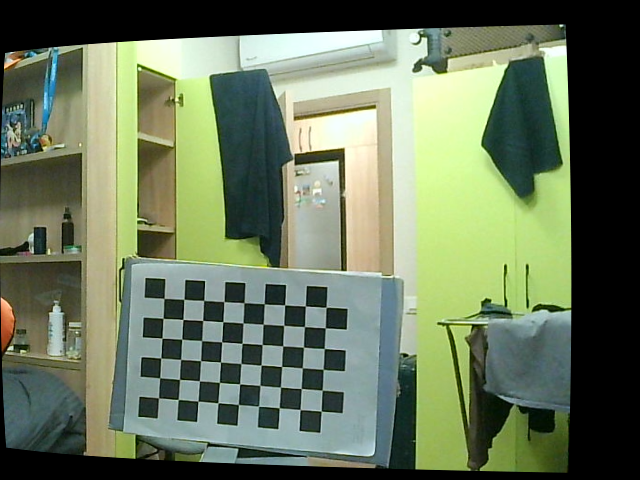
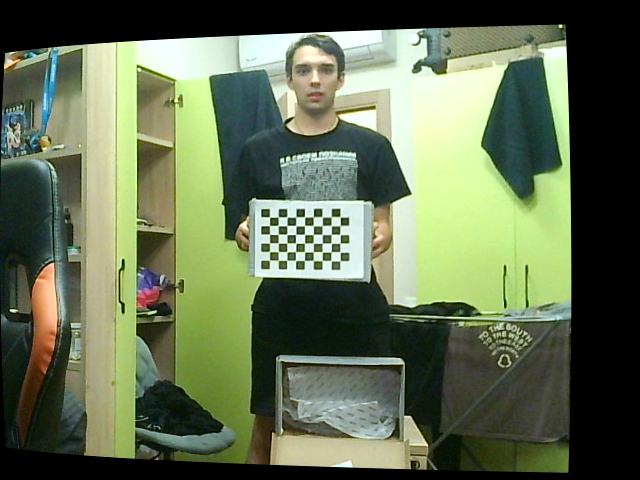
readme

diff --git a/README.md b/README.md
@@ -1,0 +1,255 @@
+# Stereo_BM — измерение расстояния по стереопаре
+
+Проект на Python и OpenCV для калибровки двух камер, ректификации изображений и оценки расстояния методом блочного сопоставления **StereoBM**. Содержит отдельные версии для Windows и Linux / Raspberry Pi.
+
+Программа показывает изображения камер и карту диспаратности, измеряет расстояние в небольшой области кадра и сохраняет статистику экспериментов в CSV.
+
+## Возможности
+
+- Определение индексов подключённых камер.  
+- Сохранение пар фотографий шахматной доски.
+- Калибровка каждой камеры и стереопары.
+- Ректификация: выравнивание соответствующих точек по горизонтали.
+- Численная проверка вертикального расхождения по углам шахматной доски.
+- Измерение расстояния по медиане диспаратности в области 31 × 31 пиксель.
+- Сбор 50 валидных измерений с расчётом среднего, стандартного отклонения и ошибки относительно заданного расстояния.
+- Вывод скорости обработки и времени отдельных этапов.
+
+## Структура проекта
+
+```text
+Stereo_BM/
+├── calibration_files/             # PDF и PNG для работы с тестовыми изображениями
+├── metods/                        # Сопроводительные документы DOCX
+├── stereo_project_win/
+│   ├── camera_index_check.py
+│   ├── capture_calibration.py
+│   ├── stereo_calibrate.py
+│   ├── stereo_rectify.py
+│   ├── check_rectification.py
+│   ├── stereo_bm_win.py
+│   ├── calibration_photos/left/
+│   ├── calibration_photos/right/
+│   ├── stereo_calibration.npz
+│   ├── rect_left.png
+│   ├── rect_right.png
+│   └── bm_results_optimized.csv
+└── stereo_project_lin/
+    ├── camera_index_check_linux.py
+    ├── capture_calibration_linux.py
+    ├── stereo_calibrate_linux.py
+    ├── stereo_rectify_linux.py
+    ├── check_rectification_linux.py
+    ├── stereo_bm_linux.py
+    ├── calibration_photos/left/
+    ├── calibration_photos/right/
+    ├── stereo_calibration.npz
+    ├── rect_left.png
+    ├── rect_right.png
+    └── bm_results_optimized_linux.csv
+```
+
+## Требования и установка
+
+Нужны Python 3, NumPy, OpenCV с поддержкой графических окон, две камеры и шахматная доска. Для Linux используется интерфейс V4L2. Для просмотра окон требуется графическая сессия; пакет opencv-python-headless для этих сценариев не подходит.
+
+Зависимости перечислены в requirements.txt.
+
+### Windows
+
+Откройте PowerShell в распакованной папке Stereo_BM:
+
+```powershell
+py -m venv .venv
+./.venv/Scripts/python.exe -m pip install numpy opencv-python
+cd stereo_project_win
+../.venv/Scripts/python.exe camera_index_check.py
+```
+
+В командах ниже под python понимается интерпретатор этого окружения. Без активации окружения используйте вместо python путь ..\.venv\Scripts\python.exe.
+
+### Linux / Raspberry Pi
+
+Откройте терминал в распакованной папке Stereo_BM:
+
+```bash
+python3 -m venv .venv
+source .venv/bin/activate
+python -m pip install numpy opencv-python
+cd stereo_project_lin
+python camera_index_check_linux.py
+```
+
+Доступность готового пакета OpenCV зависит от ОС, архитектуры и версии Python. Если установка не проходит, потребуется совместимая сборка OpenCV для вашей системы.
+
+**Выполняйте дальнейшие команды из папки своей платформы.** Многие скрипты читают и записывают файлы относительно текущей рабочей папки.
+
+## Порядок работы
+
+### 1. Определите камеры и согласуйте их порядок
+
+Закройте другие программы, использующие камеры, и запустите camera_index_check.py либо camera_index_check_linux.py. Скрипт проверяет индексы от 0 до 5. Поочерёдно закрывайте объективы, чтобы определить физическую левую и правую камеры.
+
+- Пробел — следующая камера.
+- Q или Esc — завершить проверку.
+
+### 2. Снимите калибровочные пары
+
+В stereo_calibrate.py или stereo_calibrate_linux.py проверьте:
+
+```python
+CHECKERBOARD = (9, 6)
+SQUARE_SIZE = 24.0  # миллиметры
+```
+
+9 × 6 — количество **внутренних углов**, то есть доска из 10 × 7 клеток. SQUARE_SIZE должен соответствовать фактически измеренной стороне клетки. От этого зависит масштаб вычисляемого расстояния.
+
+Запустите скрипт своей платформы:
+
+```powershell
+# Windows
+python capture_calibration.py
+```
+
+```bash
+# Linux
+python capture_calibration_linux.py
+```
+
+Нажимайте S, чтобы сохранить пару, и Q для выхода. Снимки записываются как calibration_photos/left/00.jpg и calibration_photos/right/00.jpg, затем 01.jpg и т. д.
+
+Снимайте доску в разных положениях, наклонах и частях кадра; она должна быть видна обеим камерам. Для продолжения калибровки код требует минимум 10 пар с обнаруженными углами на обоих изображениях.
+
+**При каждом запуске нумерация начинается с 00: существующие снимки с такими именами перезаписываются.** Перед новой серией перенесите предыдущие снимки в отдельную папку. Имена и порядок файлов слева и справа должны соответствовать: калибратор сопоставляет отсортированные списки файлов.
+
+Сохраняйте одинаковое разрешение камер при съёмке, ректификации и измерении. Скрипты съёмки и просмотра ректификации не задают разрешение явно; при необходимости добавьте его настройку в код.
+
+### 3. Выполните калибровку
+
+```powershell
+# Windows
+python stereo_calibrate.py
+```
+
+```bash
+# Linux
+python stereo_calibrate_linux.py
+```
+
+Скрипт выводит ошибки калибровки, матрицы камер, взаимный поворот R, перенос T и расчётное расстояние между оптическими центрами камер. Результат сохраняется в stereo_calibration.npz, заменяя существующий файл.
+
+Файл содержит K_left, D_left, K_right, D_right, R, T, E, F и image_size. При задании SQUARE_SIZE в миллиметрах вектор T также выражен в миллиметрах.
+
+В диагностическом выводе базовое расстояние сравнивается с фиксированными **100 мм**. Это значение исходной установки, а не универсальное требование; для своей установки измените диагностическое сравнение. Измеритель берёт геометрию из калибровки.
+
+### 4. Проверьте ректификацию
+
+```powershell
+# Windows
+python stereo_rectify.py
+```
+
+```bash
+# Linux
+python stereo_rectify_linux.py
+```
+
+В окне показываются два выровненных изображения с горизонтальными линиями. Соответствующие точки должны находиться примерно на одной высоте. S сохраняет rect_left.png и rect_right.png без нарисованных направляющих, Q завершает работу. Сохранение заменяет предыдущую пару.
+
+Для численной проверки сохраните пару с полностью видимой шахматной доской:
+
+```powershell
+# Windows
+python check_rectification.py rect_left.png rect_right.png --cols 9 --rows 6
+```
+
+```bash
+# Linux
+python check_rectification_linux.py rect_left.png rect_right.png --cols 9 --rows 6
+```
+
+Проверка выводит среднюю, медианную, RMS и максимальную вертикальную ошибку в пикселях, а также медианную диспаратность. Оценка относится к найденным углам этой пары, а не ко всему полю зрения. Если скрипт предупреждает о возможном обратном порядке углов, сначала проверьте их соответствие визуально.
+
+### 5. Запустите измерение
+
+**Windows:** задайте REAL_DISTANCE_CM в stereo_bm_win.py равным известному расстоянию до объекта в сантиметрах. По умолчанию установлено 100.0.
+
+```powershell
+python stereo_bm_win.py
+```
+
+**Linux / Raspberry Pi:** реальное расстояние можно передать при запуске; по умолчанию это 60 см.
+
+```bash
+python stereo_bm_linux.py --left /dev/video0 --right /dev/video2 --distance 60
+```
+
+Дополнительные параметры Linux:
+
+| Параметр        | Назначение                                                 |
+| --------------- | ---------------------------------------------------------- |
+| --left, --right | Пути к устройствам камер                                   |
+| --distance      | Известное расстояние до объекта в см, больше нуля          |
+| --calibration   | Путь к файлу NPZ; по умолчанию рядом со скриптом           |
+| --results       | Путь к CSV; по умолчанию рядом со скриптом                 |
+| --fourcc        | YUYV или MJPG; ограничение текущей реализации описано ниже |
+
+Разместите объект в красной области измерения. Нажмите S: программа соберёт 50 валидных измерений и добавит строку в CSV. Во время сбора держите объект и камеры неподвижными. Q завершает работу; незаконченная серия в CSV не сохраняется.
+
+Клавиши работают в активном окне OpenCV; используйте латинскую раскладку без Shift.
+
+## Как вычисляется расстояние
+
+После ректификации StereoBM рассчитывает горизонтальное смещение соответствующих точек — диспаратность. В области 31 × 31 пиксель отбрасываются неподходящие значения. Если осталось не менее 50 пикселей, берётся медиана диспаратности и вычисляется:
+
+```text
+Z_cm = f_px × B_mm / (10 × |d_px|)
+```
+
+Здесь f — фокусное расстояние из матрицы ректифицированной камеры, B — модуль горизонтальной базы из проекционных матриц, d — медианная диспаратность. Результат представляет глубину вдоль оптической оси ректифицированной камеры.
+
+REAL_DISTANCE_CM / --distance используется только для расчёта ошибки эксперимента, а не для настройки измеренной глубины.
+
+### Основные параметры текущего кода
+
+| Параметр                | Windows             | Linux             |
+| ----------------------- | ------------------- | ----------------- |
+| MIN_DISPARITY           | -256                | -256              |
+| NUM_DISPARITIES         | 256                 | 256               |
+| BLOCK_SIZE              | 15                  | 15                |
+| ROI_RADIUS              | 15                  | 15                |
+| MIN_VALID_PIXELS        | 50                  | 50                |
+| NUM_SAMPLES             | 50                  | 50                |
+| Центр области измерения | Центр изображения   | Центр изображения |
+
+Windows-версия настроена на отрицательную диспаратность, Linux-версия — также на отрицательную. Это настройки конкретной стереопары, а не требования операционной системы. При изменении порядка камер или геометрии проверьте диапазон поиска и фильтр valid_disparities. Параметры задаются в исходном коде.
+
+## Результаты экспериментов
+
+Windows сохраняет bm_results_optimized.csv в текущую папку. Linux по умолчанию сохраняет bm_results_optimized_linux.csv в текущую папку. Новые серии дописываются в конец файла; одна строка соответствует одной серии из 50 валидных измерений.
+
+| Поле CSV               | Значение                                              |
+| ---------------------- | ----------------------------------------------------- |
+| real_distance_cm       | Заданное реальное расстояние, см                      |
+| measured_distance_cm   | Среднее измеренное расстояние, см                     |
+| std_cm                 | Стандартное отклонение измерений, см                  |
+| mean_disparity_px      | Средняя диспаратность по серии, пиксели               |
+| absolute_error_cm      | Модуль разницы среднего и реального расстояния, см    |
+| relative_error_percent | Относительная ошибка, %                               |
+| valid_percent          | Средняя доля валидных пикселей в области измерения, % |
+| processing_time_ms     | Среднее время вызова StereoBM, мс                     |
+| algorithm_fps          | Обратная величина среднего времени StereoBM, кадры/с  |
+
+algorithm_fps не включает захват кадров, подготовку и отображение. Общая частота работы показывается отдельно как FPS.
+
+## Особенности и устранение проблем
+
+- **Камера не открылась.** Закройте приложения, использующие камеру, повторно проверьте индексы и подключение. В Linux проверьте доступ к нужным устройствам /dev/videoN.
+- **Размер кадров не совпадает с калибровкой.** Настройте камеры на разрешение калибровочных снимков либо заново выполните калибровку с нужным разрешением.
+- **NO DATA или сбор серии не завершается.** Недостаточно валидных пикселей. Проверьте освещение, резкость, текстуру объекта, качество ректификации, порядок камер и диапазон диспаратности. Однородная поверхность может не давать устойчивых соответствий.
+- **Неверный масштаб расстояния.** Проверьте реальный размер клетки и единицы SQUARE_SIZE: измеритель ожидает миллиметры. После изменения положения камер нужна новая калибровка.
+- **Не найдена шахматная доска.** Проверьте число внутренних углов, фокус и видимость всей доски на обоих кадрах.
+- **Параметр --fourcc в Linux.** Хотя аргумент принимает YUYV и MJPG, далее код повторно устанавливает MJPG. Фактический формат выводится при запуске; для полноценного выбора YUYV потребуется убрать повторную установку MJPG в stereo_bm_linux.py.
+- **Область измерения в Windows.** Центр жёстко задан как (320, 240), что соответствует центру изображения 640 × 480. Для другого разрешения скорректируйте center_x и center_y.
+
+Захват использует последовательные grab/retrieve двух камер; аппаратная синхронизация в коде не реализована. Быстрое движение может ухудшать соответствие стереопары.
